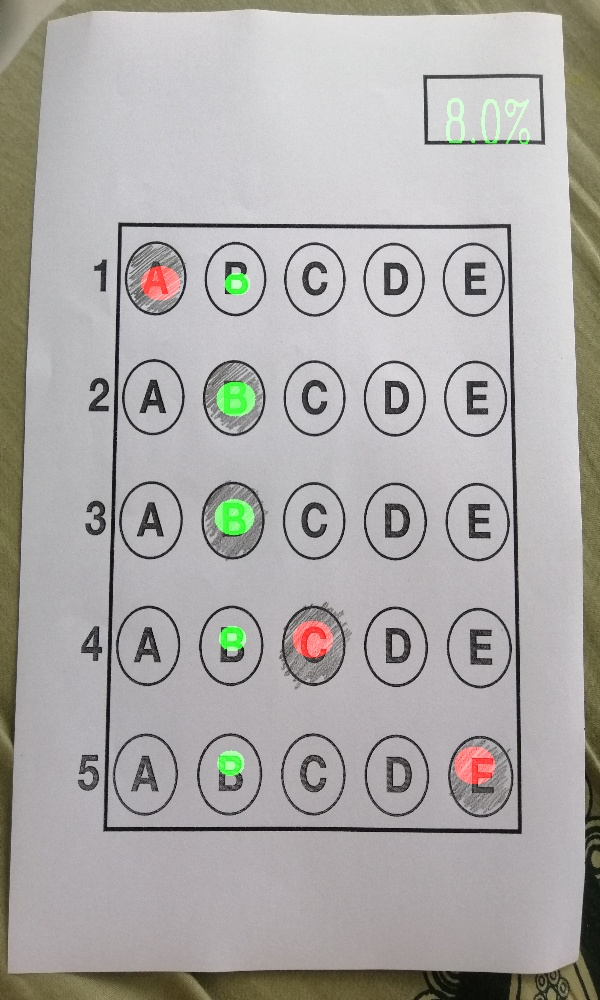
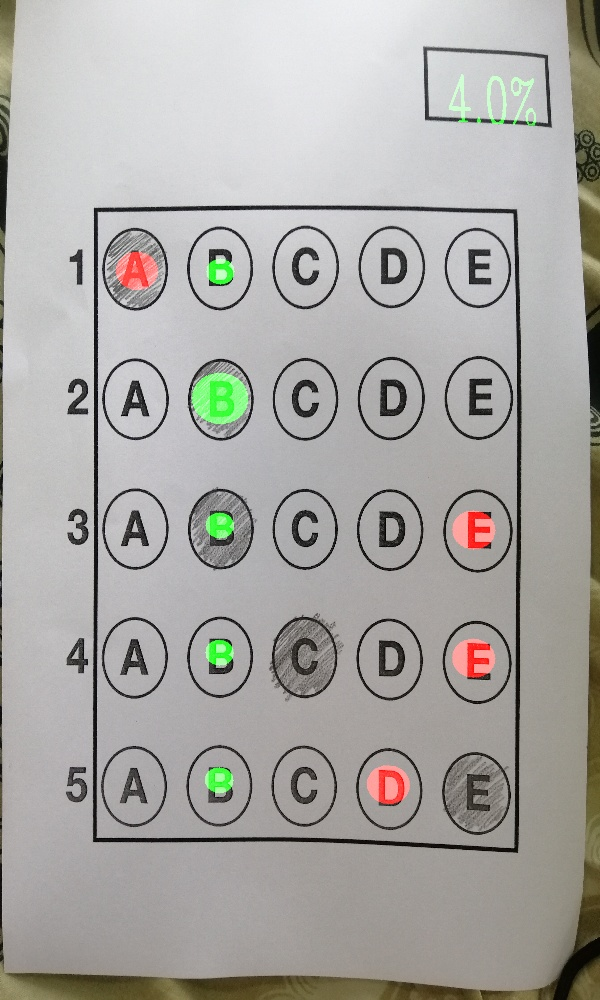
updated tkinter

diff --git a/testing/pytkinter.py b/testing/pytkinter.py
@@ -79,8 +79,6 @@ scroll_bar.pack(side=RIGHT,fill=Y)
 window.mainloop()
 '''
 
-
-
 ###############################################################
 
 from tkinter import *
@@ -89,14 +87,18 @@ from PIL import ImageTk, Image
 import tkinter as tk
 from main import omrmarking
 import mysql.connector
+from datetime import datetime
+from tkinter.filedialog import askopenfilename
+import cv2
 
-my_connect = mysql.connector.connect(
-  host="localhost",
-  user="root",
-  passwd="",
-  database="yap"
-)
-my_cursor = my_connect.cursor()
+try:
+    my_connect = mysql.connector.connect(host="localhost",user="root",passwd="",database="automaticomr")
+    cur = my_connect.cursor()
+except Exception as e:
+    print(e)
+
+now = datetime.now()
+formatdate = now.strftime('%Y-%m-%d %H-%M-%S')
 
 
 def build():
@@ -111,7 +113,7 @@ def build():
     return window
 
 
-def openfn():
+def openfile():
     filename = filedialog.askopenfilename(title='open')
     global path
     path = filename
@@ -128,45 +130,51 @@ def show(p):
 
 
 def openImg():
-    x = openfn()
+    x = openfile()
     show(x)
 
 
 def getTextInput():
     student = studentlist.get(1.0, tk.END + "-1c")
+    course = courselist.get(1.0, tk.END + "-1c")
     result = answerlist.get(1.0, tk.END + "-1c")
     mark = totalmark.get(1.0, tk.END + "-1c")
-    s = omrmarking(path,result,mark)
-
-    show('Scanned.jpg')
-
-    resultlabel = Label(window,bg="white", text="Result:")
+    s = omrmarking(path, result, mark)
+    resultlabel = Label(window, bg="white", text="Result:")
     resultlabel.place(x=80, y=480)
-    noresult = Label(window,bg="white", text=s,fg='green')
+    noresult = Label(window, bg="white", text=s, fg='green')
     noresult.place(x=80, y=520)
     noresult.option_add('*Font', '12')
+    sql = "INSERT INTO student (studentId, subjectcode, mark, totalmark) VALUES ('{}','{}','{}','{}')".format(student, course,s,mark)
+    cur.execute(sql)
+    my_connect.commit()
+    print(cur.rowcount, "record inserted.")
+    show("Scanned.jpg")
+
 
 window = build()
 label_file_explorer = Label(window, text="Scan OMR ", width=100, height=4)
 label_file_explorer.place(x=0, y=0)
 
+label_file_explorer.option_add('*Font', 'Times 10')
 button_explore = Button(window, text="Browse Files", command=openImg)
-button_explore.place(x=130, y=80, width=140, height=40)
+button_explore.place(x=80, y=80, width=140, height=40)
 
-button_exit = Button(window, text="Exit", command=window.destroy)
-button_exit.place(x=430, y=80, width=140, height=40)
+'''button_exit = Button(window, text="Exit", command=window.destroy)
+button_exit.place(x=430, y=80, width=140, height=40)'''
 
-choice = Label(window,bg="white", text=" A:0 , B:1 , C:2 , D:3 , E:4 ").place(x=80, y=150)
+choice = Label(window, bg="white", text=" A:0 , B:1 , C:2 , D:3 , E:4 ").place(x=80, y=150)
 
-
-#noresult = Label(window,bg="white", text="N").place(x=80, y=400)
-
-labelchoice = Label(window,bg="white",text="Insert StudentId").place(x=80, y=230)
-labelchoice = Label(window,bg="white",text="Insert True Answer").place(x=80, y=280)
-labelmark = Label(window,bg="white",text="Insert Total Mark").place(x=80, y=330)
+labelstudent = Label(window, bg="white", text="Insert StudentId").place(x=80, y=180)
+labelcourse = Label(window, bg="white", text="Insert Course").place(x=80, y=230)
+labelanswer = Label(window, bg="white", text="Insert True Answer").place(x=80, y=280)
+labelmark = Label(window, bg="white", text="Insert Total Mark").place(x=80, y=330)
 
 studentlist = tk.Text(window, height=10)
-studentlist.place(x=80, y=255, width=120, height=20)
+studentlist.place(x=80, y=205, width=120, height=20)
+
+courselist = tk.Text(window, height=10)
+courselist.place(x=80, y=255, width=120, height=20)
 
 answerlist = tk.Text(window, height=10)
 answerlist.place(x=80, y=305, width=120, height=20)
@@ -174,12 +182,7 @@ answerlist.place(x=80, y=305, width=120, height=20)
 totalmark = tk.Text(window, height=10)
 totalmark.place(x=80, y=355, width=120, height=20)
 
-btnRead = tk.Button(window, height=1, width=10, text="Read",command=getTextInput)
+btnRead = tk.Button(window, height=1, width=10, text="Scan", command=getTextInput)
 btnRead.place(x=80, y=400, width=140, height=40)
 
-
-scroll_bar = Scrollbar(window)
-
-
-scroll_bar.pack(side=RIGHT,fill=Y)
 window.mainloop()

diff --git a/testing/utlis.py b/testing/utlis.py
@@ -1,44 +1,6 @@
 import cv2
 import numpy as np
 
-
-def stackImages(imgArray,scale,lables=[]):
-    rows = len(imgArray)
-    cols = len(imgArray[0])
-    rowsAvailable = isinstance(imgArray[0], list)
-    width = imgArray[0][0].shape[1]
-    height = imgArray[0][0].shape[0]
-    if rowsAvailable:
-        for x in range ( 0, rows):
-            for y in range(0, cols):
-                imgArray[x][y] = cv2.resize(imgArray[x][y], (0, 0), None, scale, scale)
-                if len(imgArray[x][y].shape) == 2: imgArray[x][y]= cv2.cvtColor( imgArray[x][y], cv2.COLOR_GRAY2BGR)
-        imageBlank = np.zeros((height, width, 3), np.uint8)
-        hor = [imageBlank]*rows
-        hor_con = [imageBlank]*rows
-        for x in range(0, rows):
-            hor[x] = np.hstack(imgArray[x])
-            hor_con[x] = np.concatenate(imgArray[x])
-        ver = np.vstack(hor)
-        ver_con = np.concatenate(hor)
-    else:
-        for x in range(0, rows):
-            imgArray[x] = cv2.resize(imgArray[x], (0, 0), None, scale, scale)
-            if len(imgArray[x].shape) == 2: imgArray[x] = cv2.cvtColor(imgArray[x], cv2.COLOR_GRAY2BGR)
-        hor= np.hstack(imgArray)
-        hor_con= np.concatenate(imgArray)
-        ver = hor
-    if len(lables) != 0:
-        eachImgWidth= int(ver.shape[1] / cols)
-        eachImgHeight = int(ver.shape[0] / rows)
-        #print(eachImgHeight)
-        for d in range(0, rows):
-            for c in range (0,cols):
-                cv2.rectangle(ver,(c*eachImgWidth,eachImgHeight*d),(c*eachImgWidth+len(lables[d][c])*13+27,30+eachImgHeight*d),(255,255,255),cv2.FILLED)
-                cv2.putText(ver,lables[d][c],(eachImgWidth*c+10,eachImgHeight*d+20),cv2.FONT_HERSHEY_COMPLEX,0.7,(255,0,255),2)
-    return ver
-
-
 def reorder(myPoints):
     myPoints = myPoints.reshape((4, 2))
     myPointsNew = np.zeros((4, 1, 2), dtype=np.int32)
@@ -107,7 +69,7 @@ def showAnswers(img, myIndex, grading, ans, choices=5):
         cY = (x * secH) + secH // 2
         if grading[x] == 1:
             myColor = (0, 255, 0)
-            cv2.circle(img, (cX, cY), 30, myColor, cv2.FILLED)
+            cv2.circle(img, (cX, cY), 40, myColor, cv2.FILLED)
         else:
             myColor = (0, 0, 255)
             cv2.circle(img, (cX, cY), 30, myColor, cv2.FILLED)

diff --git a/testing/main.py b/testing/main.py
@@ -1,16 +1,10 @@
 import cv2
 import numpy as np
 import utlis
-import MySQLdb as mdb
 
 
 def omrmarking(path,ans,mark, score=0):
-    '''try:
-        con = mdb.connect("localhost", "root", "", "yap")
-        cur = con.cursor()
-    except Exception as e:
-        print(e)
-    '''
+
     if 1:
         widthImg = 600
         heightImg = 1000
@@ -79,7 +73,7 @@ def omrmarking(path,ans,mark, score=0):
 
                         if sum(arr[myindexval]) < 5000:
                             myIndex[x] = 999
-                        #print(str(sum(arr[myindexval]))+'sssssssssssssssssss')
+
                     grading = []
                     for x in range(0, questions):
                         if ans[x] == myIndex[x]:
@@ -98,19 +92,12 @@ def omrmarking(path,ans,mark, score=0):
                     imgInvWarp = cv2.warpPerspective(imgRawDrawings, invMatrix, (widthImg, heightImg))
 
                     imgrawgrade = np.zeros_like(imgwrapgrade, np.uint8)
-                    cv2.putText(imgrawgrade, str(float(score)) + "%", (50, 100), cv2.FONT_HERSHEY_COMPLEX, 3,
-                                (0, 255, 0),
-                                4)
+                    cv2.putText(imgrawgrade, str(float(score)) + "%", (50, 100), cv2.FONT_HERSHEY_COMPLEX, 3,(0, 255, 0),4)
                     invMatrixG = cv2.getPerspectiveTransform(pt02, pt01)
                     imginvgradedisplay = cv2.warpPerspective(imgrawgrade, invMatrixG, (widthImg, heightImg))
                     imginvgradedisplay = cv2.addWeighted(imginvgradedisplay, 1, imgInvWarp, 1, 0)
 
                     imgfinal = cv2.addWeighted(imgfinal, 1, imginvgradedisplay, 1, 1)
-
-                    imageArray = ([img, imggray, imgblur, imgcanny],
-                                  [imgcountours, imgbigcountour, imgwrap, imgthres],
-                                  [imgresult, imgInvWarp, imgfinal, imgblank])
-
             except:
                 pass
             cv2.imwrite("Scanned.jpg", imgfinal)

diff --git a/testing/dgd.py b/testing/dgd.py
@@ -1,21 +1,39 @@
+import numpy as np
+import cv2
 import tkinter as tk
-from main import omrmarking
+from PIL import Image, ImageTk
 
-root = tk.Tk()
-root.geometry("400x240")
+#Set up GUI
+window = tk.Tk()  #Makes main window
+window.wm_title("Digital Microscope")
+window.config(background="#FFFFFF")
+
+#Graphics window
+imageFrame = tk.Frame(window, width=100, height=400)
+imageFrame.grid(row=0, column=0, padx=10, pady=2)
+
+#Capture video frames
+lmain = tk.Label(imageFrame)
+lmain.grid(row=0, column=0)
+cap = cv2.VideoCapture(0)
 
 
-def getTextInput():
-    result = textExample.get(1.0, tk.END+"-1c")
-    print(result)
+def show_frame():
+    _, frame = cap.read()
+    frame = cv2.flip(frame, 1)
+    cv2image = cv2.cvtColor(frame, cv2.COLOR_BGR2RGBA)
+    img = Image.fromarray(cv2image)
+    imgtk = ImageTk.PhotoImage(image=img)
+    lmain.imgtk = imgtk
+    lmain.configure(image=imgtk)
+    lmain.after(10, show_frame)
 
 
 
-textExample=tk.Text(root, height=10)
-textExample.pack()
-btnRead=tk.Button(root, height=1, width=10, text="Read",
-                    command=getTextInput)
+#Slider window (slider controls stage position)
+sliderFrame = tk.Frame(window, width=100, height=00)
+sliderFrame.grid(row = 200, column=0, padx=10, pady=2)
 
-btnRead.pack()
 
-root.mainloop()
+show_frame()  #Display 2
+window.mainloop()  #Starts GUI
